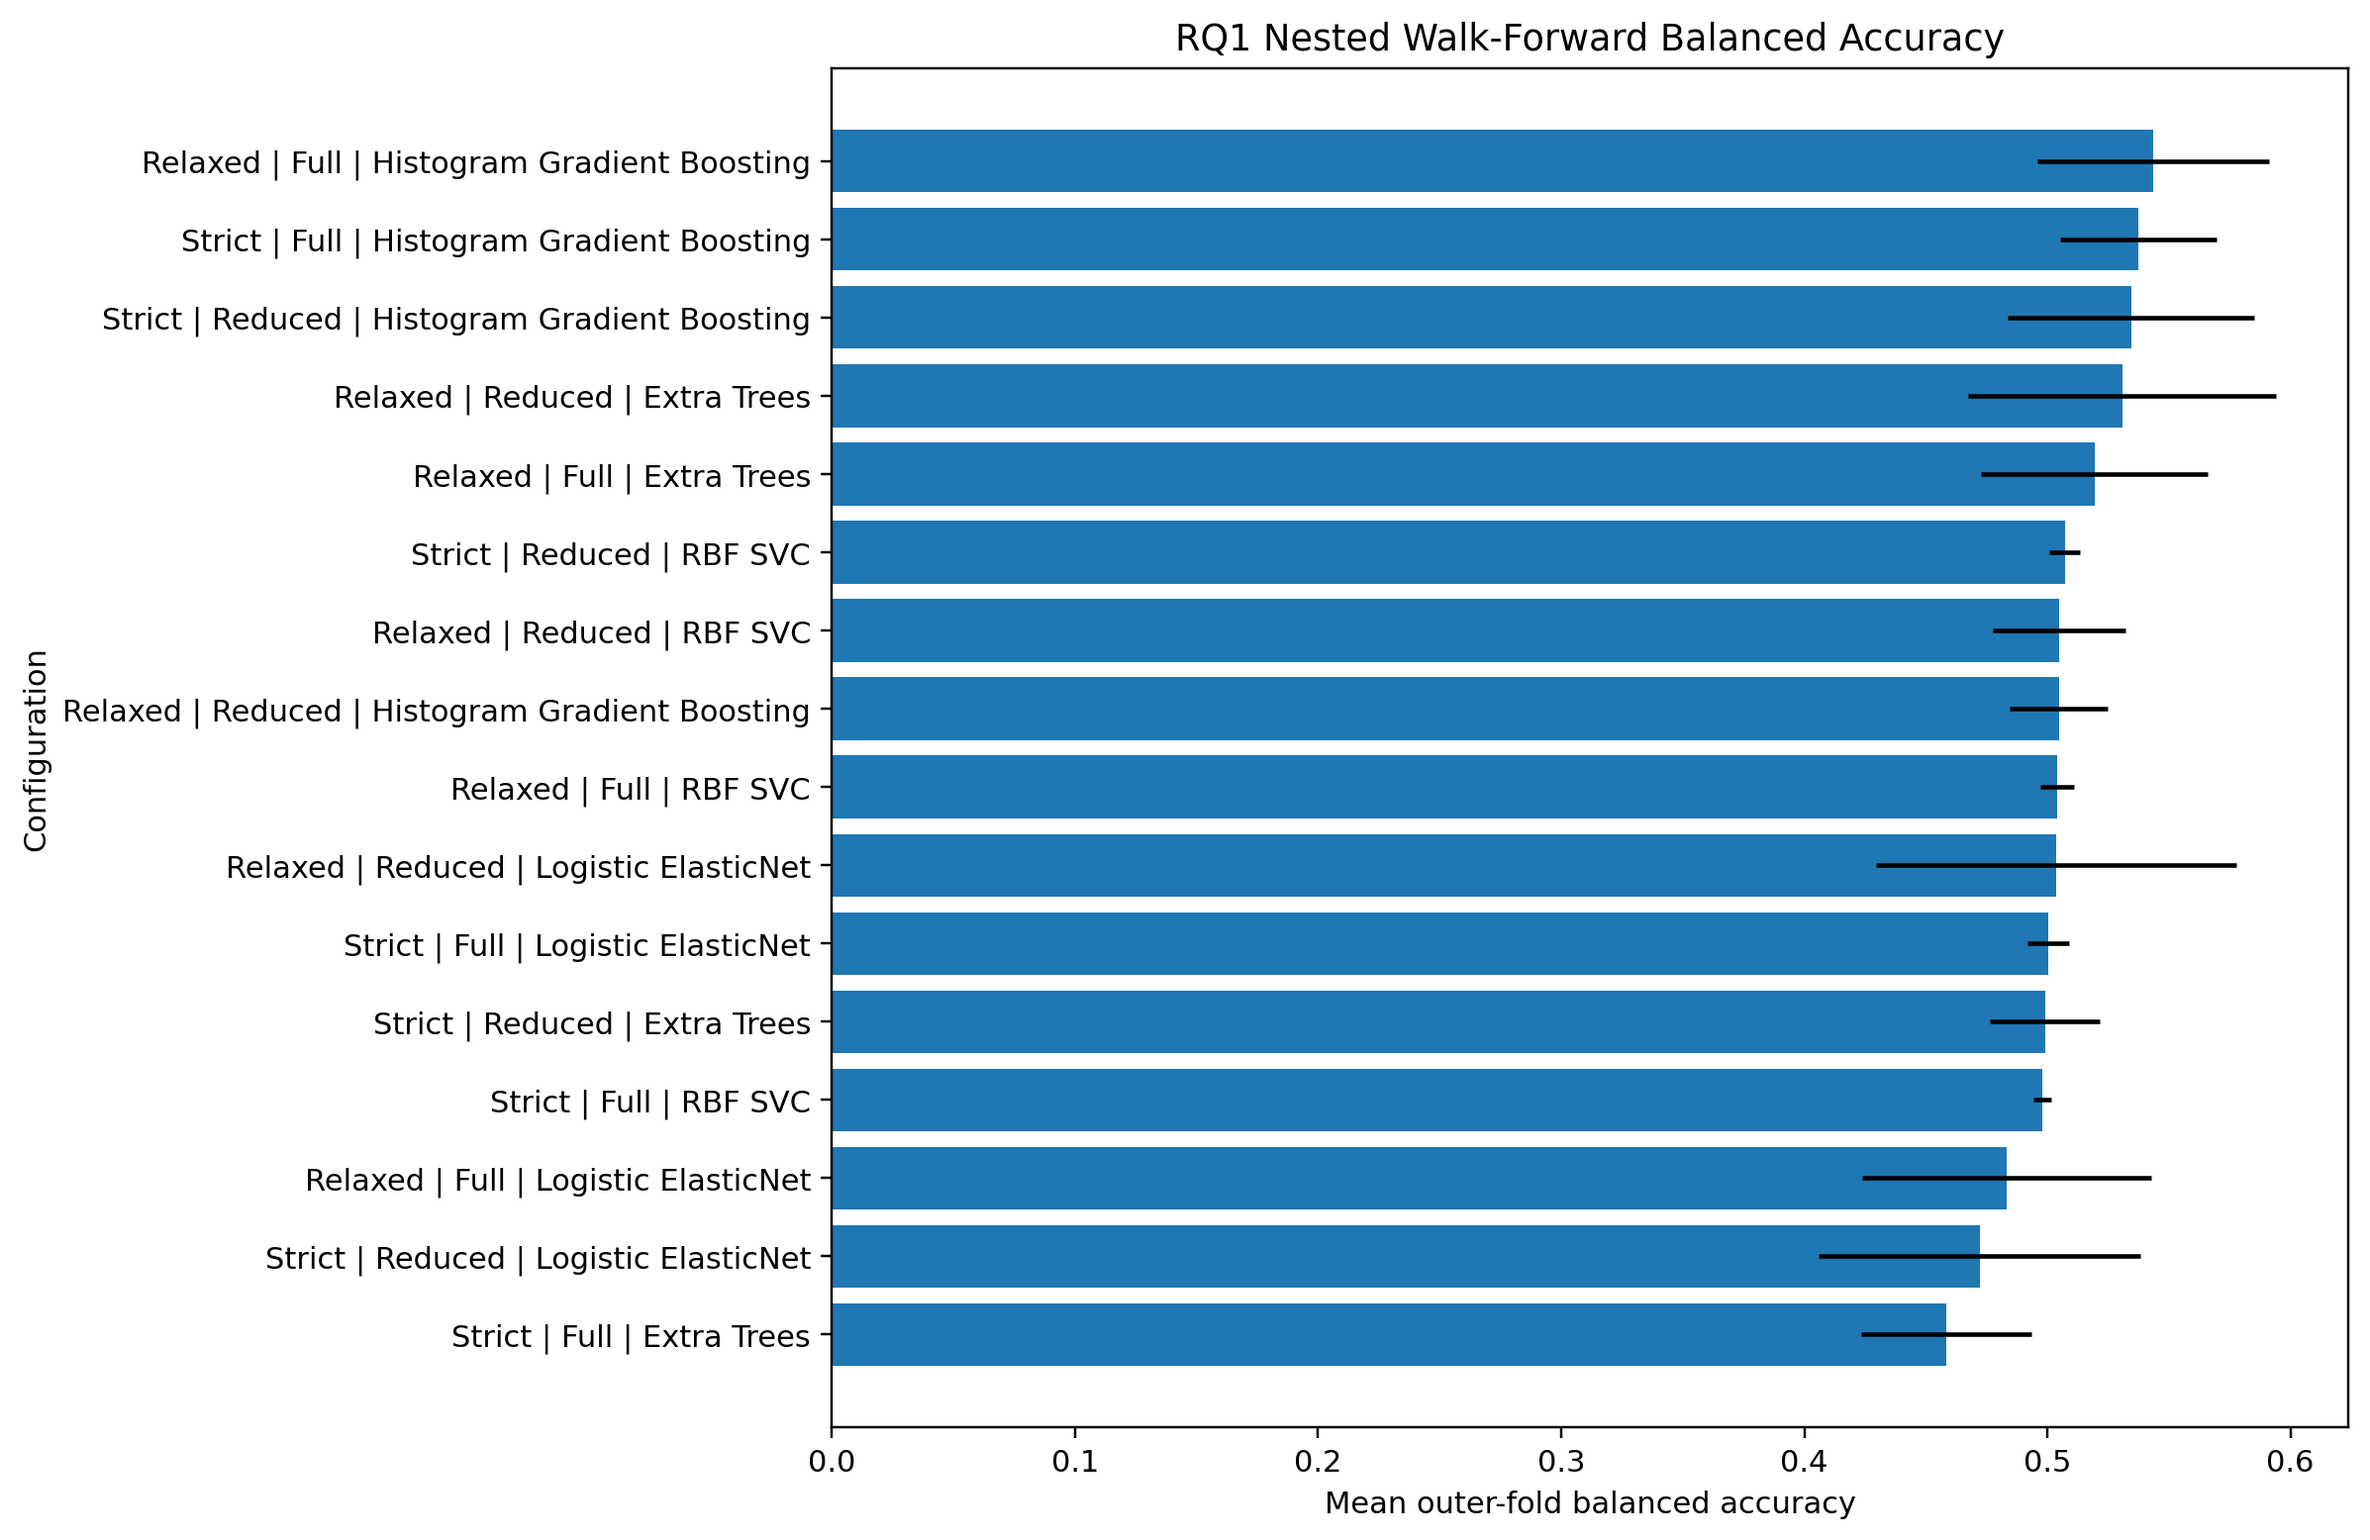
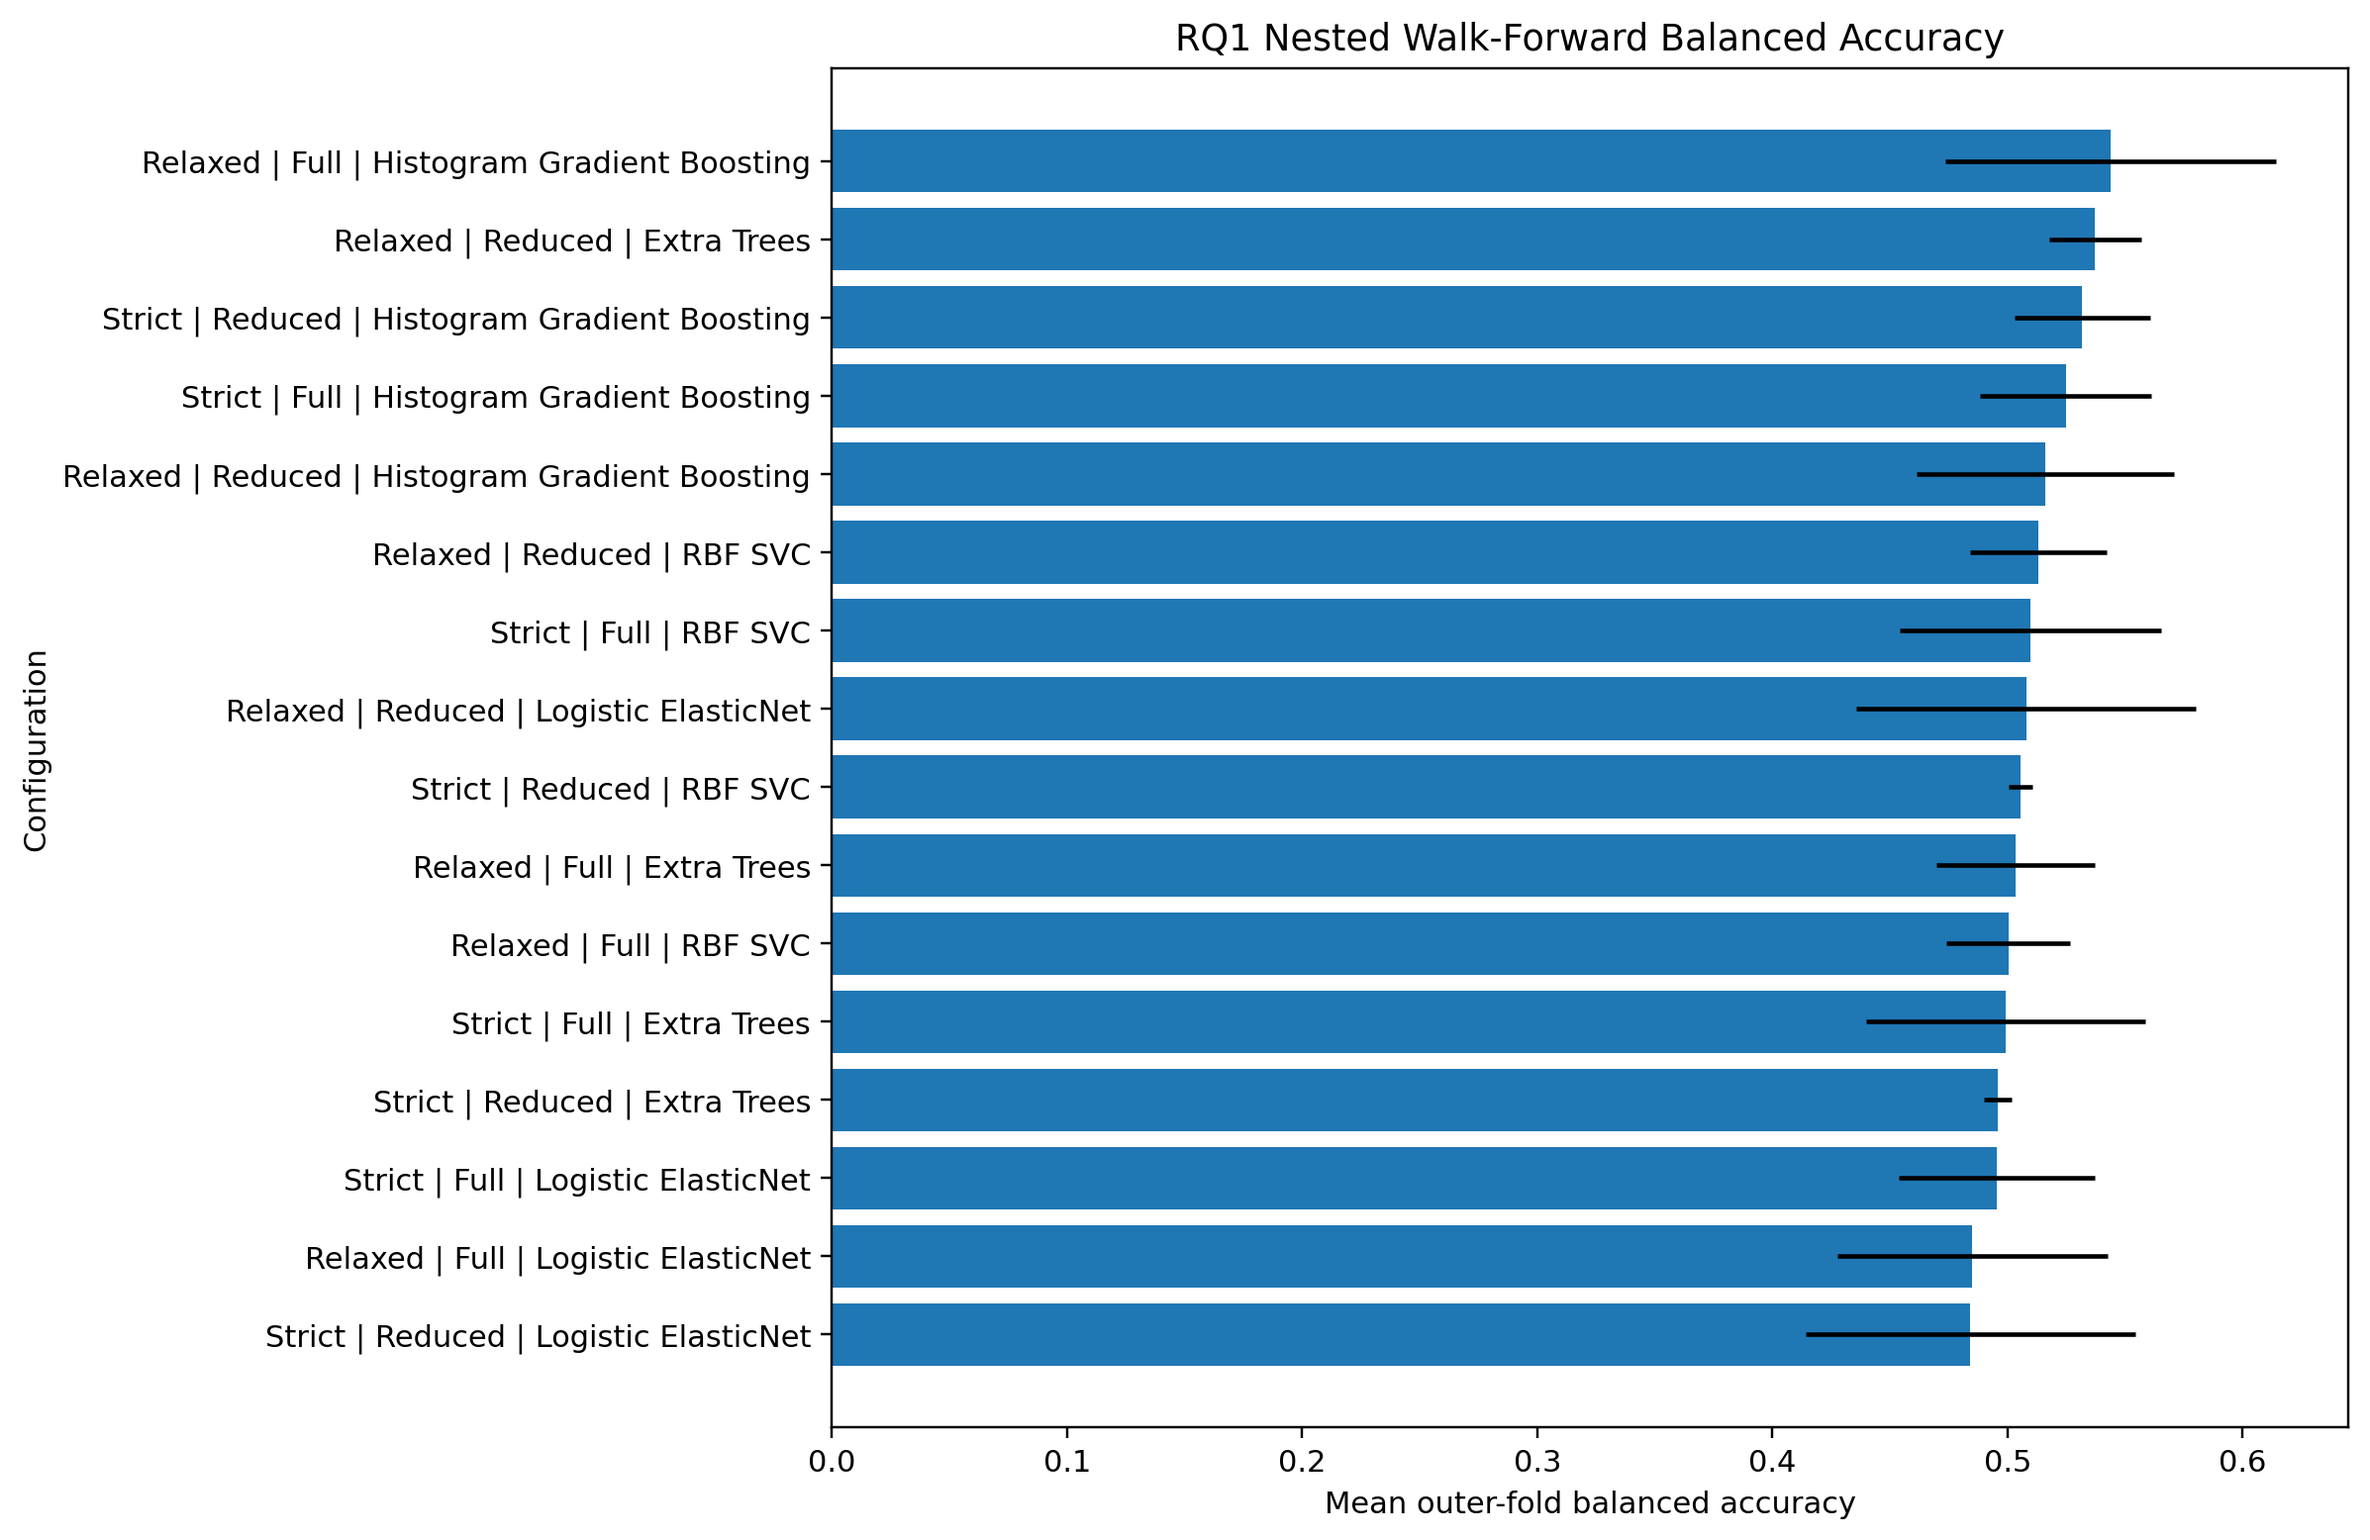
💯 Search Iteration Tuning Result

diff --git a/outputs/hyperparameter_tuning/nested_tuning_dissertation_draft.md b/outputs/hyperparameter_tuning/nested_tuning_dissertation_draft.md
@@ -7,7 +7,7 @@ relaxed dataset and
 full feature set as the leading
 directional specification. Its mean outer-fold balanced accuracy was
 0.544, with a standard
-deviation of 0.048.
+deviation of 0.070.
 Taken together, these results provide limited evidence of directional predictability. Any score only
 slightly above 0.50 should be interpreted cautiously because the
 available sample is small and the relationship varies across market
@@ -16,13 +16,13 @@ regimes.
 ### RQ2: Magnitude of the final-hour SPX movement
 
 The strongest magnitude model was
-Extra Trees using the
+RBF SVR using the
 relaxed dataset and
 reduced feature set. The model achieved a
-mean outer-fold MAE of 13.77 basis
+mean outer-fold MAE of 13.97 basis
 points, mean out-of-sample R-squared of
-0.062, and mean Spearman correlation of
-0.444. This provides modest evidence that intraday features contain information about movement magnitude.
+0.003, and mean Spearman correlation of
+0.373. This provides modest evidence that intraday features contain information about movement magnitude.
 The result should be described as incremental rather than strong if
 the MAE improvement is small relative to the unconditional movement
 distribution.
@@ -33,9 +33,9 @@ The leading large-movement configuration was
 RBF SVC using the
 strict dataset and
 full feature set. Mean outer-fold average
-precision was 0.499, while
+precision was 0.501, while
 mean recall after fold-specific threshold optimisation was
-0.789. These results provide
+0.564. These results provide
 evidence that the features can rank large-movement risk. Feature-importance conclusions should be based on
 repeated permutation importance and economic feature groups because
 the input variables are correlated and individual rankings may be
